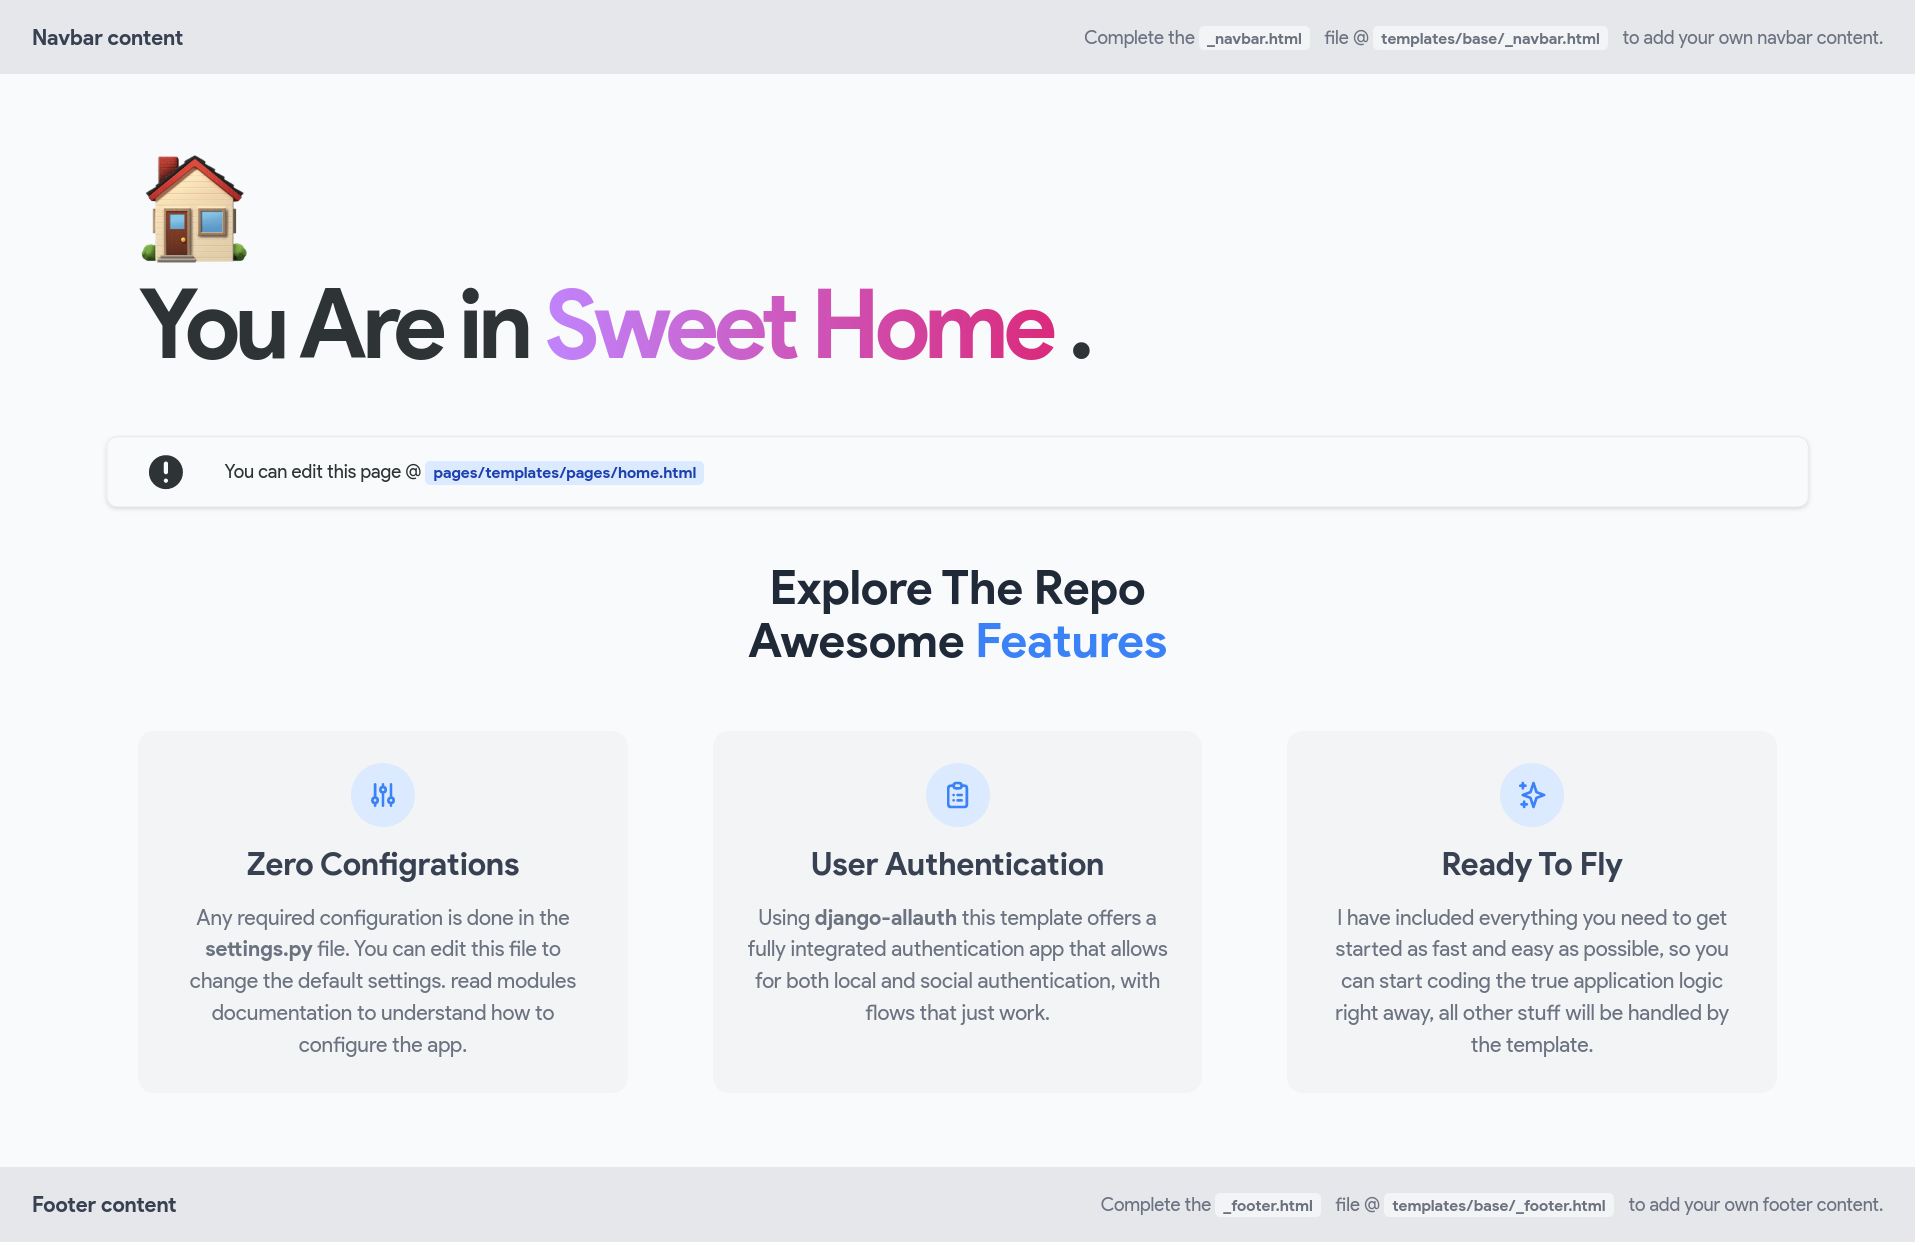
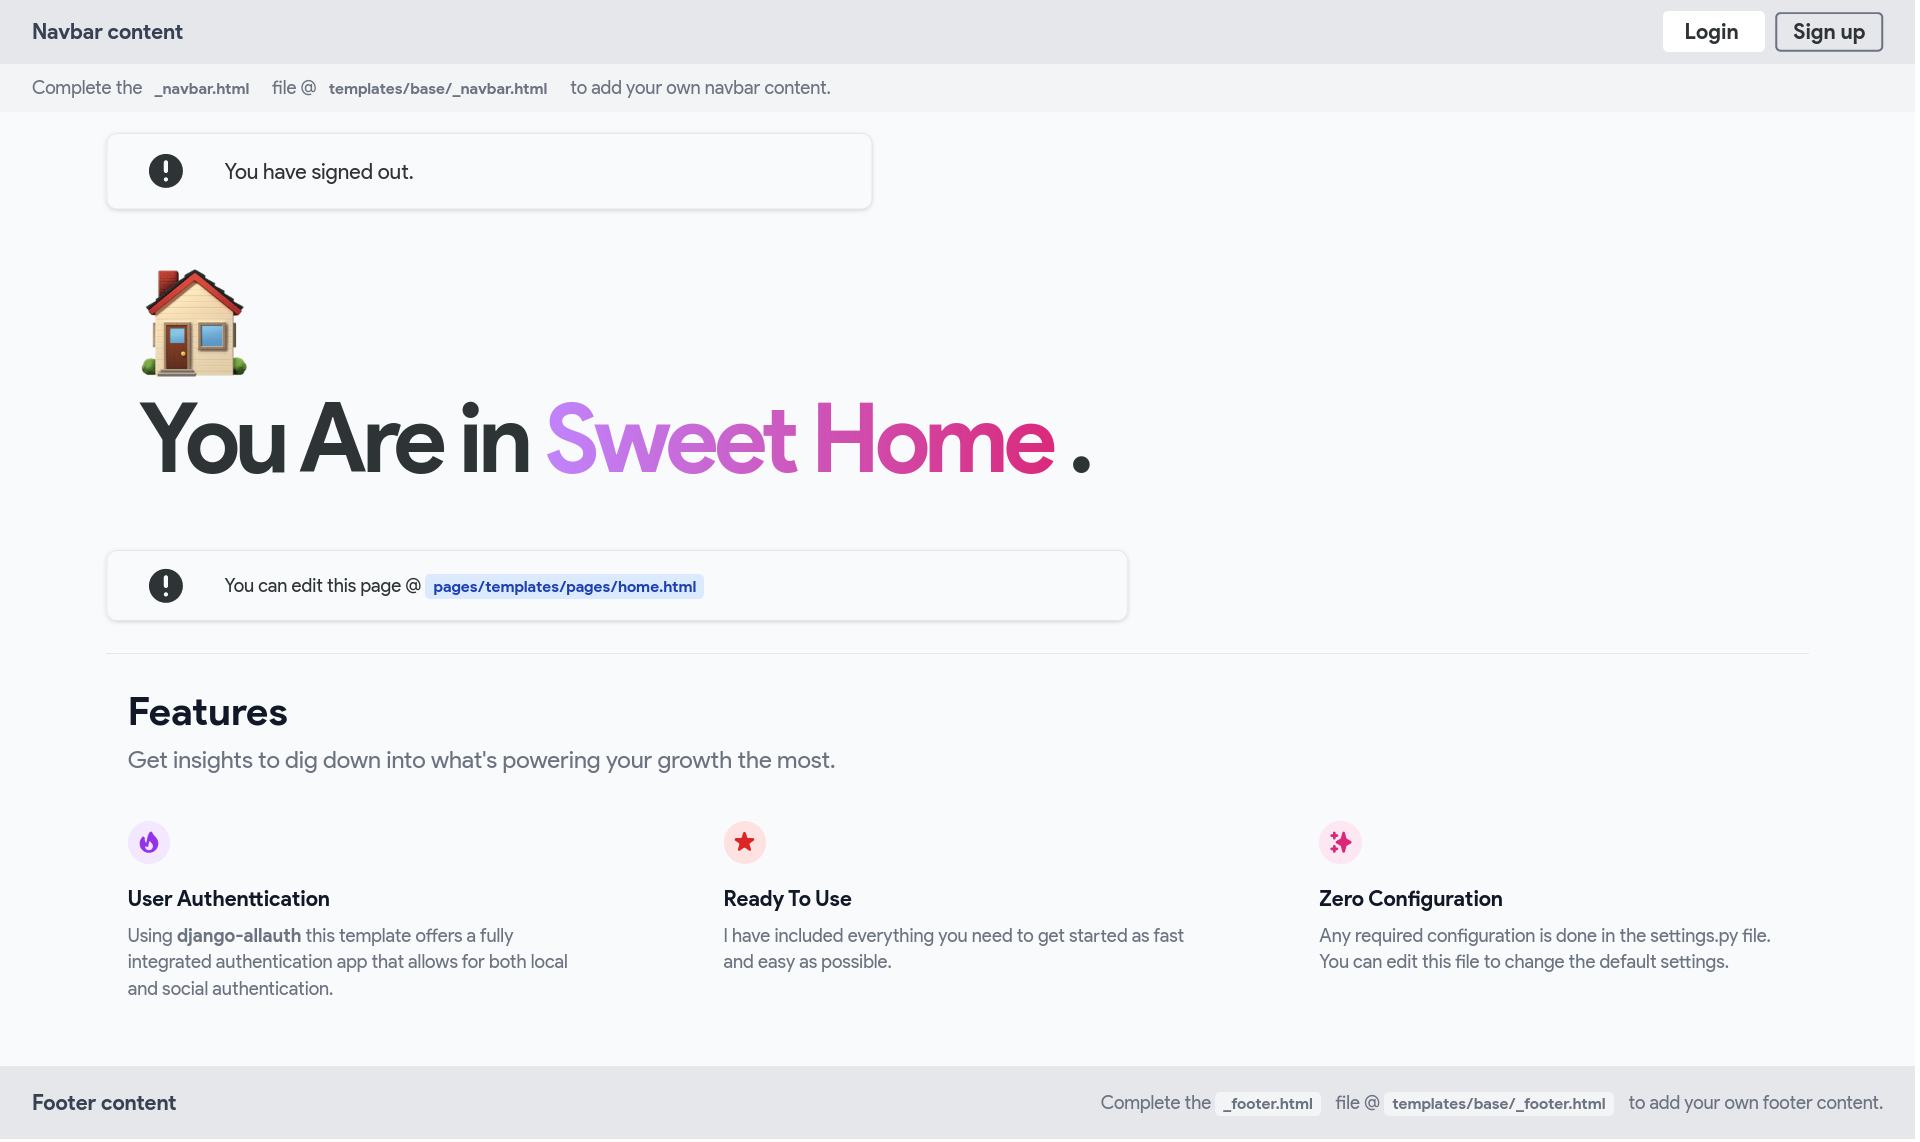
ADD: Django Allauth Basics

diff --git a/pages/templates/pages/home.html b/pages/templates/pages/home.html
@@ -12,7 +12,7 @@
             </h1>
         </div>
     </div>
-    <div class="flex flex-row pl-4 py-2 gap-2 items-center border rounded-lg shadow overflow-hidden dark:bg-gray-900 dark:border-blue-400">
+    <div class="flex flex-row pl-4 py-2 gap-2 items-center border rounded-lg shadow overflow-hidden dark:bg-gray-900 dark:border-blue-400 max-w-3xl">
         <span class="flex-shrink-0 inline-flex mx-3 item-center justify-center leading-none rounded-full dark:bg-blue-400 dark:text-gray-900">
             <svg xmlns="http://www.w3.org/2000/svg"
                  viewBox="0 0 20 20"
@@ -31,59 +31,63 @@
             </p>
         </div>
     </div>
-    <section class="dark:bg-gray-900">
-        <div class="container px-6 py-10 mx-auto">
-            <h1 class="text-3xl font-semibold text-center text-gray-800 capitalize lg:text-4xl dark:text-white">
-                explore the repo
-                <br>
-                awesome <span class="text-blue-500">Features</span>
-            </h1>
-            <div class="grid grid-cols-1 gap-8 mt-8 xl:mt-12 xl:gap-16 md:grid-cols-2 xl:grid-cols-3">
-                <div class="flex flex-col items-center p-6 space-y-3 text-center bg-gray-100 rounded-xl dark:bg-gray-800">
-                    <span class="inline-block p-3 text-blue-500 bg-blue-100 rounded-full dark:text-white dark:bg-blue-500">
-                        <svg xmlns="http://www.w3.org/2000/svg"
-                             class="w-6 h-6"
-                             fill="none"
-                             viewBox="0 0 24 24"
-                             stroke="currentColor">
-                            <path stroke-linecap="round" stroke-linejoin="round" stroke-width="2" d="M12 6V4m0 2a2 2 0 100 4m0-4a2 2 0 110 4m-6 8a2 2 0 100-4m0 4a2 2 0 110-4m0 4v2m0-6V4m6 6v10m6-2a2 2 0 100-4m0 4a2 2 0 110-4m0 4v2m0-6V4" />
-                        </svg>
-                    </span>
-                    <h1 class="text-2xl font-semibold text-gray-700 capitalize dark:text-white">Zero Configrations</h1>
-                    <p class="text-gray-500 dark:text-gray-300">
-                        Any required configuration is done in the <b>settings.py</b> file. You can edit this file to change the default settings. read modules documentation to understand how to configure the app.
-                    </p>
+    <hr class="my-6">
+    <section class="px-4  mx-auto max-w-7xl">
+        <h2 class="mb-1 text-3xl font-extrabold leading-tight text-gray-900">Features</h2>
+        <p class="mb-8 text-lg text-gray-500">Get insights to dig down into what's powering your growth the most.</p>
+        <div class="mb-8 grid grid-cols-1 sm:grid-cols-2 md:grid-cols-3 gap-x-16 lg:gap-x-24 gap-y-20">
+            <div>
+                <div class="flex items-center justify-center w-8 h-8 mb-4 text-purple-600 bg-purple-100 rounded-full">
+                    <svg xmlns="http://www.w3.org/2000/svg"
+                         viewBox="0 0 20 20"
+                         fill="currentColor"
+                         class="w-5 h-5"
+                         aria-hidden="true">
+                        <path
+                        fill-rule="evenodd"
+                        d="M12.395 2.553a1 1 0 00-1.45-.385c-.345.23-.614.558-.822.88-.214.33-.403.713-.57 1.116-.334.804-.614 1.768-.84 2.734a31.365 31.365 0 00-.613 3.58 2.64 2.64 0 01-.945-1.067c-.328-.68-.398-1.534-.398-2.654A1 1 0 005.05 6.05 6.981 6.981 0 003 11a7 7 0 1011.95-4.95c-.592-.591-.98-.985-1.348-1.467-.363-.476-.724-1.063-1.207-2.03zM12.12 15.12A3 3 0 017 13s.879.5 2.5.5c0-1 .5-4 1.25-4.5.5 1 .786 1.293 1.371 1.879A2.99 2.99 0 0113 13a2.99 2.99 0 01-.879 2.121z"
+                        clip-rule="evenodd"
+                        />
+                    </svg>
                 </div>
-                <div class="flex flex-col items-center p-6 space-y-3 text-center bg-gray-100 rounded-xl dark:bg-gray-800">
-                    <span class="inline-block p-3 text-blue-500 bg-blue-100 rounded-full dark:text-white dark:bg-blue-500">
-                        <svg xmlns="http://www.w3.org/2000/svg"
-                             class="w-6 h-6"
-                             fill="none"
-                             viewBox="0 0 24 24"
-                             stroke="currentColor">
-                            <path stroke-linecap="round" stroke-linejoin="round" stroke-width="2" d="M9 5H7a2 2 0 00-2 2v12a2 2 0 002 2h10a2 2 0 002-2V7a2 2 0 00-2-2h-2M9 5a2 2 0 002 2h2a2 2 0 002-2M9 5a2 2 0 012-2h2a2 2 0 012 2m-3 7h3m-3 4h3m-6-4h.01M9 16h.01" />
-                        </svg>
-                    </span>
-                    <h1 class="text-2xl font-semibold text-gray-700 capitalize dark:text-white">User Authentication</h1>
-                    <p class="text-gray-500 dark:text-gray-300">
-                        Using <b>django-allauth</b> this template offers a fully integrated authentication app that allows for both local and social authentication, with flows that just work.
-                    </p>
+                <h3 class="mb-2 text-base font-semibold leading-tight text-gray-900">User Authenttication</h3>
+                <p class="text-sm text-gray-500">
+                    Using <b>django-allauth</b> this template offers a fully integrated authentication app that allows for both local and social authentication.
+                </p>
+            </div>
+            <div>
+                <div class="flex items-center justify-center w-8 h-8 mb-4 text-red-600 bg-red-100 rounded-full">
+                    <svg xmlns="http://www.w3.org/2000/svg"
+                         viewBox="0 0 20 20"
+                         fill="currentColor"
+                         class="w-5 h-5"
+                         aria-hidden="true">
+                        <path
+                        d="M9.049 2.927c.3-.921 1.603-.921 1.902 0l1.07 3.292a1 1 0 00.95.69h3.462c.969 0 1.371 1.24.588 1.81l-2.8 2.034a1 1 0 00-.364 1.118l1.07 3.292c.3.921-.755 1.688-1.54 1.118l-2.8-2.034a1 1 0 00-1.175 0l-2.8 2.034c-.784.57-1.838-.197-1.539-1.118l1.07-3.292a1 1 0 00-.364-1.118L2.98 8.72c-.783-.57-.38-1.81.588-1.81h3.461a1 1 0 00.951-.69l1.07-3.292z"
+                        />
+                    </svg>
                 </div>
-                <div class="flex flex-col items-center p-6 space-y-3 text-center bg-gray-100 rounded-xl dark:bg-gray-800">
-                    <span class="inline-block p-3 text-blue-500 bg-blue-100 rounded-full dark:text-white dark:bg-blue-500">
-                        <svg xmlns="http://www.w3.org/2000/svg"
-                             class="w-6 h-6"
-                             fill="none"
-                             viewBox="0 0 24 24"
-                             stroke="currentColor">
-                            <path stroke-linecap="round" stroke-linejoin="round" stroke-width="2" d="M5 3v4M3 5h4M6 17v4m-2-2h4m5-16l2.286 6.857L21 12l-5.714 2.143L13 21l-2.286-6.857L5 12l5.714-2.143L13 3z" />
-                        </svg>
-                    </span>
-                    <h1 class="text-2xl font-semibold text-gray-700 capitalize dark:text-white">Ready to fly</h1>
-                    <p class="text-gray-500 dark:text-gray-300">
-                        I have included everything you need to get started as fast and easy as possible, so you can start coding the true application logic right away, all other stuff will be handled by the template.
-                    </p>
+                <h3 class="mb-2 text-base font-semibold leading-tight text-gray-900">Ready To Use</h3>
+                <p class="text-sm text-gray-500">I have included everything you need to get started as fast and easy as possible.</p>
+            </div>
+            <div>
+                <div class="flex items-center justify-center w-8 h-8 mb-4 text-pink-600 bg-pink-100 rounded-full">
+                    <svg xmlns="http://www.w3.org/2000/svg"
+                         viewBox="0 0 20 20"
+                         fill="currentColor"
+                         class="w-5 h-5"
+                         aria-hidden="true">
+                        <path
+                        fill-rule="evenodd"
+                        d="M5 2a1 1 0 011 1v1h1a1 1 0 010 2H6v1a1 1 0 01-2 0V6H3a1 1 0 010-2h1V3a1 1 0 011-1zm0 10a1 1 0 011 1v1h1a1 1 0 110 2H6v1a1 1 0 11-2 0v-1H3a1 1 0 110-2h1v-1a1 1 0 011-1zM12 2a1 1 0 01.967.744L14.146 7.2 17.5 9.134a1 1 0 010 1.732l-3.354 1.935-1.18 4.455a1 1 0 01-1.933 0L9.854 12.8 6.5 10.866a1 1 0 010-1.732l3.354-1.935 1.18-4.455A1 1 0 0112 2z"
+                        clip-rule="evenodd"
+                        />
+                    </svg>
                 </div>
+                <h3 class="mb-2 text-base font-semibold leading-tight text-gray-900">Zero Configuration</h3>
+                <p class="text-sm text-gray-500">
+                    Any required configuration is done in the settings.py file. You can edit this file to change the default settings.
+                </p>
             </div>
         </div>
     </section>

diff --git a/templates/base/_navbar.html b/templates/base/_navbar.html
@@ -1,14 +1,41 @@
-<navbar class="flex flex-col items-center justify-between px-6 py-4 bg-gray-200 sm:flex-row">
-<p class="text-gray-700">
-    <b>
-        Navbar content
-    </b>
-</p>
-<p class="text-sm text-gray-500">
-    Complete the
-    <span class="bg-gray-100 text-xs font-semibold mr-2 px-1.5 py-0.5 rounded">_navbar.html</span>
-    file @
-    <span class="bg-gray-100 text-xs font-semibold mr-2 px-1.5 py-0.5 rounded">templates/base/_navbar.html</span>
-    to add your own navbar content.
-</p>
-</navbar>
+<div>
+    <navbar class="flex flex-col items-center justify-between px-6 py-2 bg-gray-200 sm:flex-row">
+    <p class="text-gray-700">
+        <b>
+            Navbar content
+        </b>
+    </p>
+    <div class="duration-150 ease-in-out my-1">
+        {% if user.is_authenticated %}
+            Hello <b>{{ user.username | title }}</b>
+        {% else %}
+            <a type="button"
+               href="{% url 'account_login' %}"
+               class="px-4 py-1.5 font-semibold rounded bg-white dark:bg-gray-100 dark:text-gray-800 hover:text-white hover:bg-gray-700 hover:transition-colors ">
+                Login
+            </a>
+            <a type="button"
+               href="{% url 'account_login' %}"
+               class="ml-2 px-3 py-1 font-semibold rounded border-2 border-gray-500 dark:text-gray-100 dark:border-gray-300 hover:bg-gray-700 hover:text-white hover:transition-colors">
+                Sign up
+            </a>
+        {% endif %}
+    </div>
+    </navbar>
+    <div class="px-6 py-2 bg-gray-100 flex flex-row justify-between items-center">
+        <p class="text-sm text-gray-500">
+            Complete the
+            <span class="bg-gray-100 text-xs font-semibold mr-2 px-1.5 py-0.5 rounded">_navbar.html</span>
+            file @
+            <span class="bg-gray-100 text-xs font-semibold mr-2 px-1.5 py-0.5 rounded">templates/base/_navbar.html</span>
+            to add your own navbar content.
+        </p>
+        {% if user.is_authenticated %}
+            <a type="button"
+               href="{% url 'account_logout' %}"
+               class="font-semibold underline text-gray-600 dark:text-gray-200">
+                Log out
+            </a>
+        {% endif %}
+    </div>
+</div>

diff --git a/templates/base/_base.html b/templates/base/_base.html
@@ -21,6 +21,24 @@
     <body class="h-full bg-gray-50 grid grid-rows-[auto_1fr_auto] leading-normal tracking-normal">
         {% include "base/_navbar.html" %}
         <main class="container mx-auto my-4">
+            <div class="max-w-xl">
+                {% if messages %}
+                    <div class="flex flex-row pl-4 py-2 gap-2 items-center border rounded-lg shadow overflow-hidden dark:bg-gray-900 dark:border-blue-400">
+                        <span class="flex-shrink-0 inline-flex mx-3 item-center justify-center leading-none rounded-full dark:bg-blue-400 dark:text-gray-900">
+                            <svg xmlns="http://www.w3.org/2000/svg"
+                                 viewBox="0 0 20 20"
+                                 fill="currentColor"
+                                 class="h-8 w-8">
+                                <path fill-rule="evenodd" d="M18 10a8 8 0 11-16 0 8 8 0 0116 0zm-7 4a1 1 0 11-2 0 1 1 0 012 0zm-1-9a1 1 0 00-1 1v4a1 1 0 102 0V6a1 1 0 00-1-1z" clip-rule="evenodd">
+                                </path>
+                            </svg>
+                        </span>
+                        <div class="flex-1 p-2 list-none">
+                            {% for message in messages %}<li>{{ message }}</li>{% endfor %}
+                        </div>
+                    </div>
+                {% endif %}
+            </div>
             {% block content %}
             {% endblock content %}
         </main>

diff --git a/templates/account/logout.html b/templates/account/logout.html
@@ -1,0 +1,19 @@
+{% extends 'base/_base.html' %}
+{% load i18n %}
+{% block title %}
+    {% trans "Sign Out" %}
+{% endblock %}
+{% block content %}
+    <h1 class="text-4xl font-bold">{% trans "Sign Out" %}</h1>
+    <p class="py-2 text-lg">{% trans 'Are you sure you want to sign out?' %}</p>
+    <form method="post" action="{% url 'account_logout' %}">
+        {% csrf_token %}
+        {% if redirect_field_value %}
+            <input type="hidden"
+                   name="{{ redirect_field_name }}"
+                   value="{{ redirect_field_value }}"/>
+        {% endif %}
+        <button type="submit"
+                class="mt-4 px-6 py-2 font-semibold rounded bg-red-700 text-red-200">{% trans "Sign out" %}</button>
+    </form>
+{% endblock %}

diff --git a/config/settings.py b/config/settings.py
@@ -21,15 +21,19 @@ INSTALLED_APPS = [
     "django.contrib.sessions",
     "django.contrib.messages",
     "django.contrib.staticfiles",
+    "django.contrib.sites",
+    # local
+    "pages.apps.PagesConfig",
+    "accounts.apps.AccountsConfig",
+    "tailwindcss.apps.TailwindcssConfig",
     # 3rd-party
     "tailwind",
     "compressor",
     "crispy_forms",
     "crispy_tailwind",
-    # local
-    "pages.apps.PagesConfig",
-    "accounts.apps.AccountsConfig",
-    "tailwindcss.apps.TailwindcssConfig",
+    "allauth",
+    "allauth.account",
+    "allauth.socialaccount",
 ]
 
 MIDDLEWARE = [
@@ -55,6 +59,8 @@ TEMPLATES = [
                 "django.template.context_processors.request",
                 "django.contrib.auth.context_processors.auth",
                 "django.contrib.messages.context_processors.messages",
+                # `allauth` needs this from django
+                "django.template.context_processors.request",
             ],
         },
     },
@@ -129,6 +135,23 @@ COMPRESS_ENABLED = True
 CRISPY_ALLOWED_TEMPLATE_PACKS = "tailwind"
 
 CRISPY_TEMPLATE_PACK = "tailwind"
+
+SITE_ID = 1
+
+AUTHENTICATION_BACKENDS = [
+    # Needed to login by username in Django admin, regardless of `allauth`
+    "django.contrib.auth.backends.ModelBackend",
+    # `allauth` specific authentication methods, such as login by e-mail
+    "allauth.account.auth_backends.AuthenticationBackend",
+]
+
+ACCOUNT_SESSION_REMEMBER = True
+ACCOUNT_SIGNUP_PASSWORD_ENTER_TWICE = True
+ACCOUNT_USERNAME_REQUIRED = True
+ACCOUNT_AUTHENTICATION_METHOD = "username"
+ACCOUNT_EMAIL_REQUIRED = True
+ACCOUNT_UNIQUE_EMAIL = True
+
 
 # Import local settings
 try:

diff --git a/config/urls.py b/config/urls.py
@@ -3,5 +3,6 @@ from django.contrib import admin
 
 urlpatterns = [
     path("admin/", admin.site.urls),
+    path("accounts/", include("allauth.urls")),
     path("", include("pages.urls")),
 ]
